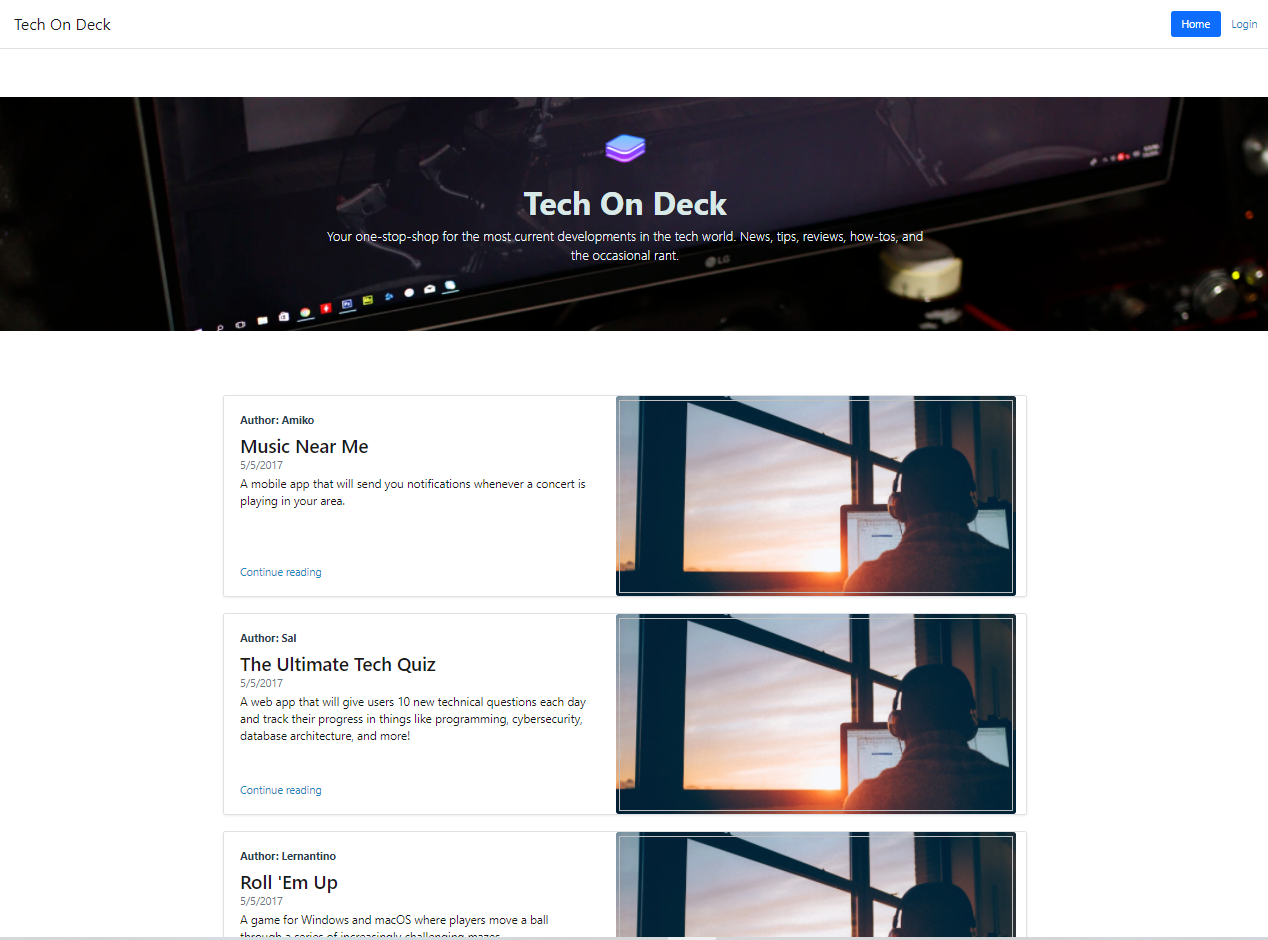
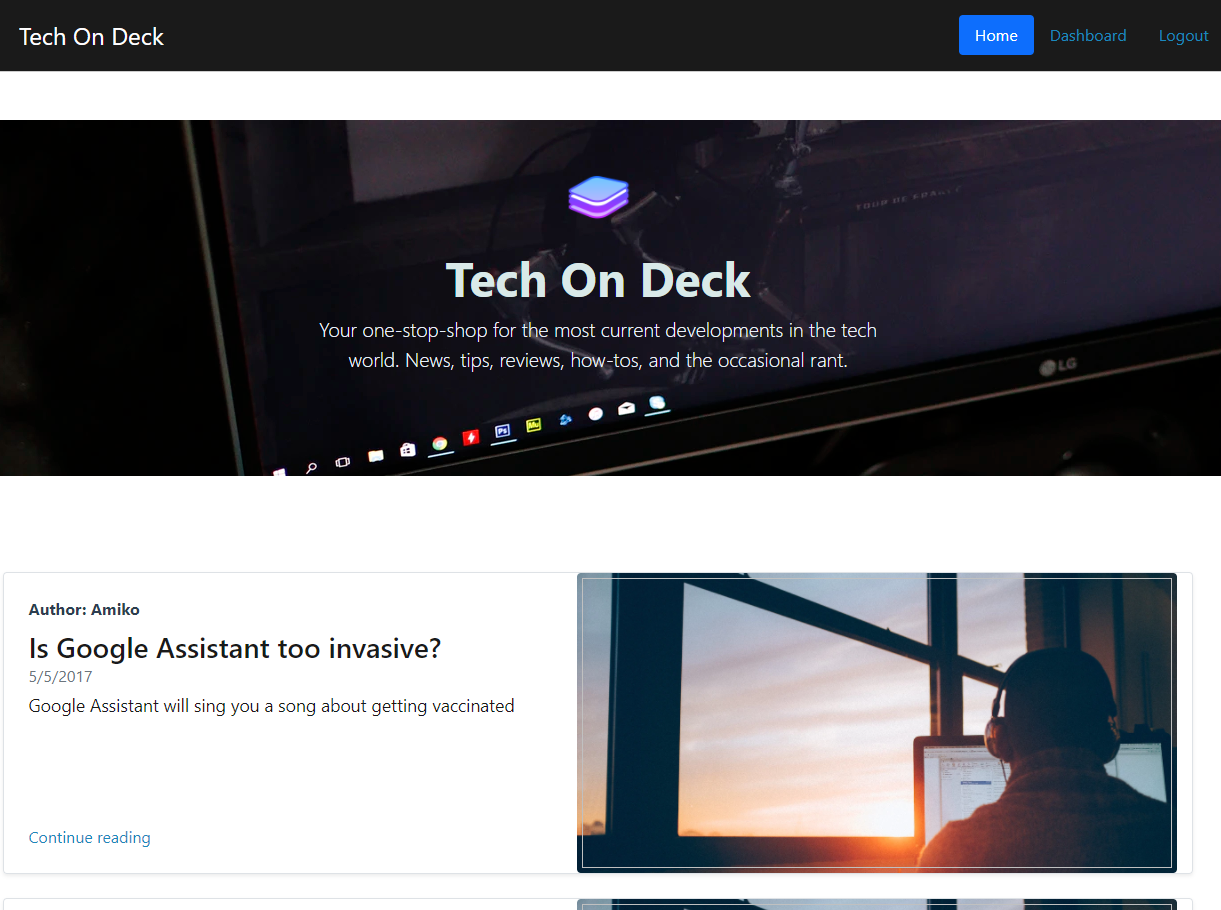
restyled nav bar and some general styling

diff --git a/public/css/style.css b/public/css/style.css
@@ -49,3 +49,7 @@ header, .project:not(:last-child) {
 .dash-posts{
  align-self:flex-end;
 }
+
+.tech-on-deck{
+  color:white;
+}
